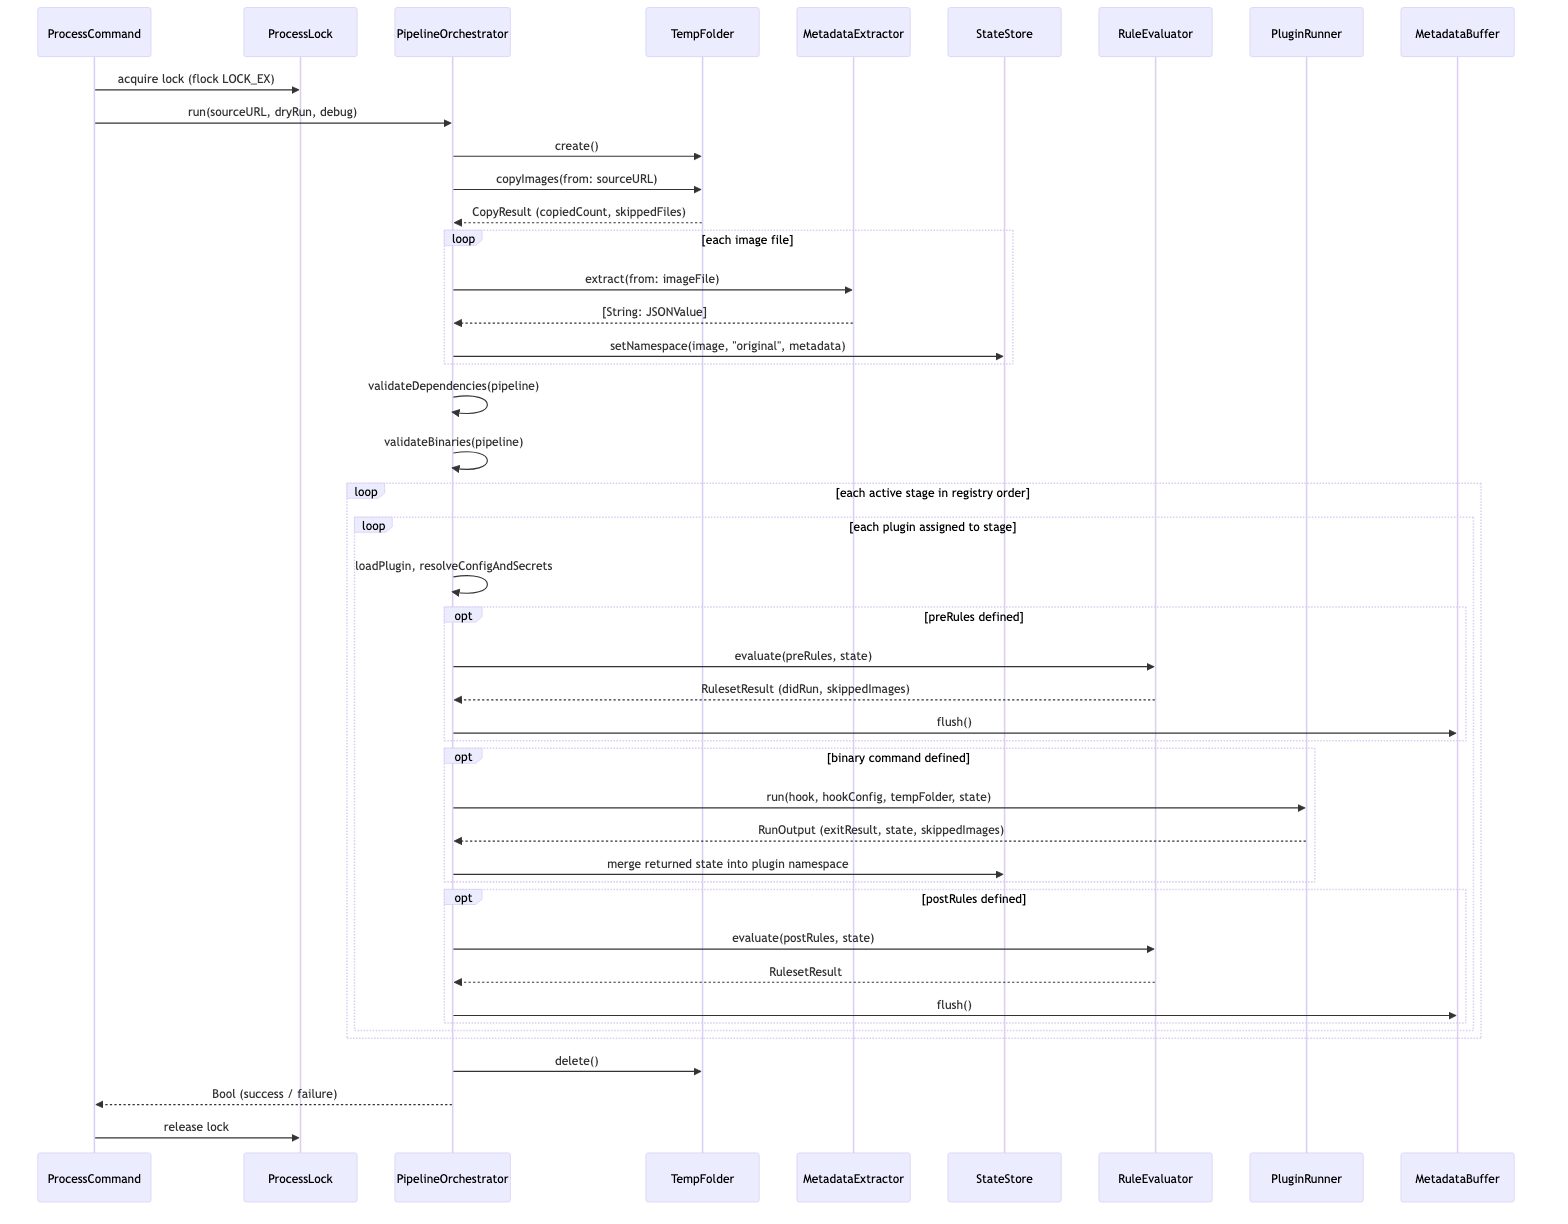
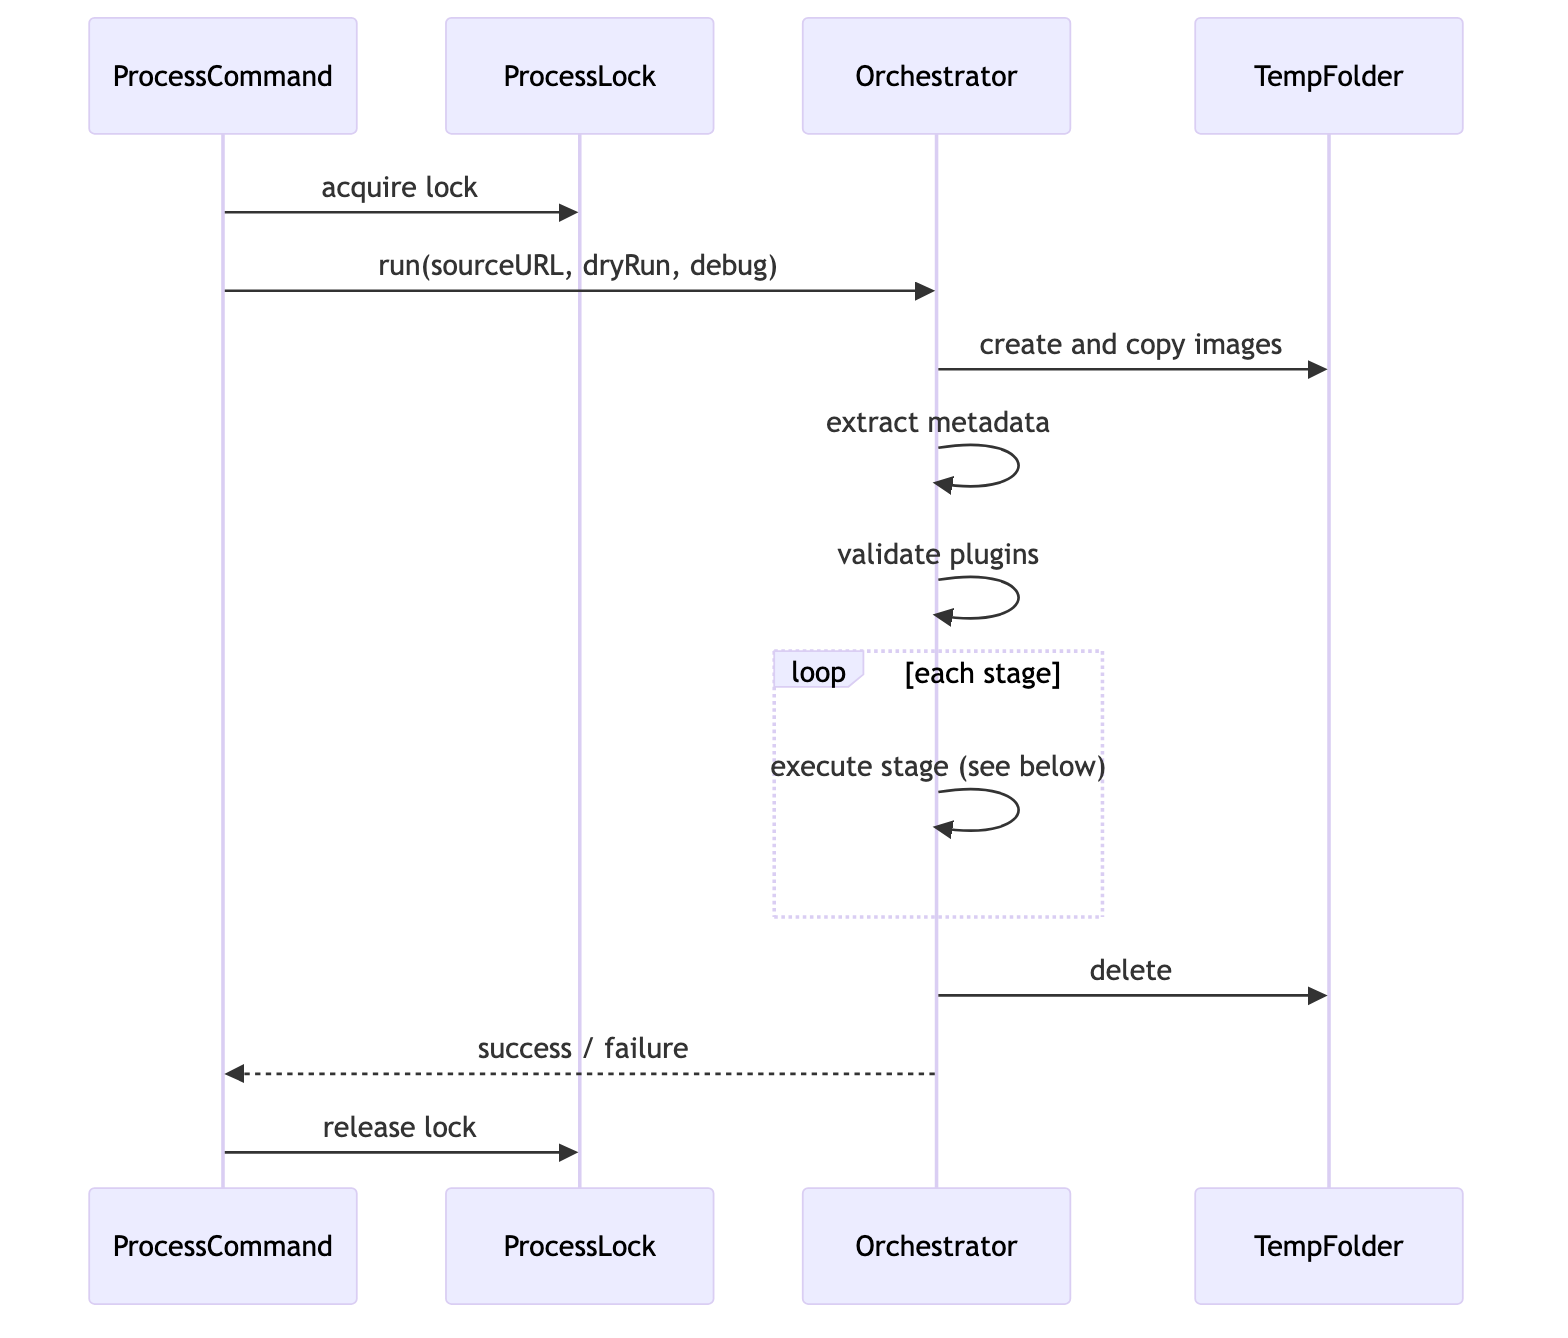
fix: split pipeline sequence diagram into high-level and stage detail
The single monolithic sequence diagram was too large. Split into:
- pipeline-1.png: high-level lifecycle (lock, setup, stage loop, cleanup)
- pipeline-1b.png: stage execution detail (preRules, binary, postRules)

diff --git a/docs/architecture/pipeline.md b/docs/architecture/pipeline.md
@@ -4,9 +4,15 @@ The pipeline is the core of piqley. When you run `piqley process`, the `ProcessC
 
 ## Orchestration sequence
 
-This diagram shows the full lifecycle of a single `piqley process` invocation.
+This diagram shows the high-level lifecycle of a single `piqley process` invocation: lock, setup, stage loop, cleanup.
 
 <img src="img/pipeline-1.png" alt="Pipeline orchestration sequence diagram" style="max-width: 800px; max-height: 600px;" />
+
+### Stage execution detail
+
+Inside each stage, the orchestrator walks each assigned plugin and runs its rules and binary in sequence.
+
+<img src="img/pipeline-1b.png" alt="Stage execution detail diagram" style="max-width: 800px; max-height: 600px;" />
 
 ## Stage hook lifecycle
 
